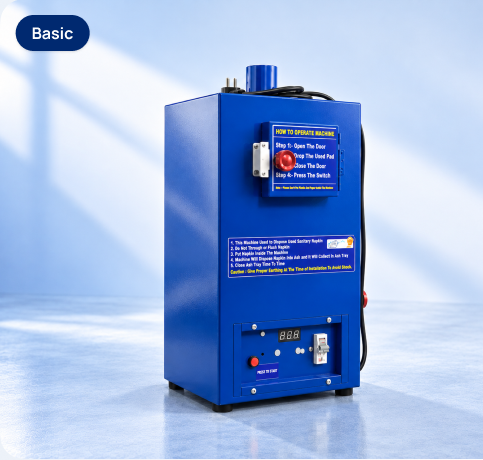
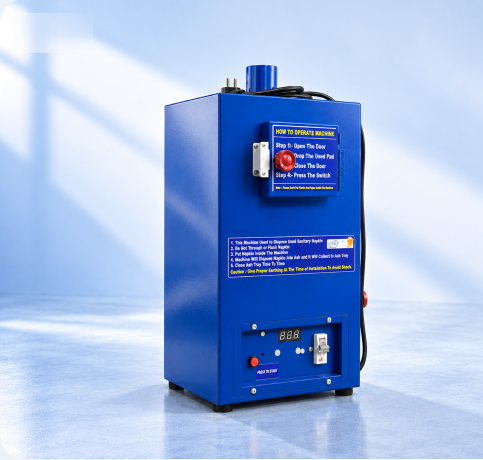
fix(ui): center searchbar in navbar, remove double container, refine card hover stroke/shadow without image zoom, clean baked badge from testimonial image

Changed region(s): [[0.0311, 0.0304, 0.1863, 0.1217]]

diff --git a/src/components/catalog/cards.tsx b/src/components/catalog/cards.tsx
@@ -37,7 +37,7 @@ function UnifiedProductCard({
     img.src.includes("testimonial-");
 
   return (
-    <article className="group relative flex h-full flex-col rounded-[24px] sm:rounded-[28px] border border-line bg-card p-3 sm:p-3.5 xl:p-4 shadow-[0_4px_24px_rgba(0,0,0,0.04)] transition-all duration-300 hover:-translate-y-1 hover:border-navy/30 hover:shadow-[0_16px_36px_rgba(0,41,112,0.08)]">
+    <article className="group relative flex h-full flex-col rounded-[24px] sm:rounded-[28px] border border-line bg-card p-3 sm:p-3.5 xl:p-4 shadow-[0_4px_24px_rgba(0,0,0,0.04)] transition-all duration-300 hover:-translate-y-1.5 hover:border-navy/40 hover:shadow-[0_18px_40px_rgba(0,41,112,0.12)]">
       {/* Product Image Container */}
       <div
         className="relative w-full overflow-hidden rounded-[16px] sm:rounded-[20px] bg-gradient-to-b from-[#eaf0f8] to-[#f4f7fb] flex items-center justify-center h-[200px] sm:h-[220px] lg:h-[260px] xl:h-[300px]"
@@ -47,7 +47,7 @@ function UnifiedProductCard({
           alt={img.alt || product.title}
           width={img.width || 400}
           height={img.height || 340}
-          className="size-full object-cover object-center transition-transform duration-500 ease-out group-hover:scale-105"
+          className="size-full object-cover object-center"
         />
 
         {!isBakedImage && product.badge && (
@@ -172,7 +172,7 @@ export function DetailCard({ product }: { product: ProductDTO }) {
   ];
 
   return (
-    <article className="group relative flex h-full flex-col rounded-[24px] sm:rounded-[28px] border border-line bg-card p-3 sm:p-3.5 xl:p-4 shadow-[0_4px_24px_rgba(0,0,0,0.04)] transition-all duration-300 hover:-translate-y-1 hover:border-navy/30 hover:shadow-[0_16px_36px_rgba(0,41,112,0.08)]">
+    <article className="group relative flex h-full flex-col rounded-[24px] sm:rounded-[28px] border border-line bg-card p-3 sm:p-3.5 xl:p-4 shadow-[0_4px_24px_rgba(0,0,0,0.04)] transition-all duration-300 hover:-translate-y-1.5 hover:border-navy/40 hover:shadow-[0_18px_40px_rgba(0,41,112,0.12)]">
       {/* Product Image Container */}
       <div
         className="relative w-full overflow-hidden rounded-[16px] sm:rounded-[20px] bg-gradient-to-b from-[#eaf0f8] to-[#f4f7fb] flex items-center justify-center h-[220px] sm:h-[250px] lg:h-[260px] xl:h-[300px]"
@@ -182,7 +182,7 @@ export function DetailCard({ product }: { product: ProductDTO }) {
           alt={img.alt || product.title}
           width={img.width || 400}
           height={img.height || 340}
-          className="size-full object-cover object-center transition-transform duration-500 ease-out group-hover:scale-105"
+          className="size-full object-cover object-center"
         />
       </div>
 

diff --git a/src/components/home/HomeHeaderView.tsx b/src/components/home/HomeHeaderView.tsx
@@ -80,9 +80,7 @@ export function HomeHeaderView({ userName, userRole, products, cartCount = 0 }: 
           )}
           aria-hidden={!isScrolled}
         >
-          <div className="rounded-full bg-white/95 backdrop-blur-md shadow-[0_8px_30px_rgb(0_41_112/0.16)] border border-line p-0.5">
-            <ProductSearch items={products} />
-          </div>
+          <ProductSearch items={products} />
         </div>
       )}
 
@@ -91,19 +89,19 @@ export function HomeHeaderView({ userName, userRole, products, cartCount = 0 }: 
           Visible at top of page. Search bar grouped together with nav links.
           ======================================================== */}
       <header className="relative z-40 bg-transparent transition-all duration-300">
-        <div className="mx-auto flex h-(--header-height) w-full max-w-(--container-page) items-center justify-between gap-6 px-5 sm:px-8 lg:px-8 xl:px-16">
+        <div className="mx-auto flex h-(--header-height) w-full max-w-(--container-page) items-center justify-between gap-4 lg:gap-8 px-5 sm:px-8 lg:px-8 xl:px-16">
           {/* Left Side: Logo */}
           <div className="shrink-0">
             <Logo />
           </div>
 
-          {/* Right Side: Search bar together with Nav links & Profile/Login */}
-          <div className="ml-auto hidden items-center gap-4 xl:gap-7 lg:flex">
-            {/* Searchbar adjacent to navlinks */}
-            <div className="w-[190px] xl:w-[270px] shrink-0">
-              <ProductSearch items={products} />
-            </div>
+          {/* Center: Search bar */}
+          <div className="hidden lg:flex flex-1 justify-center max-w-[320px] xl:max-w-[420px] mx-auto">
+            <ProductSearch items={products} className="w-full" />
+          </div>
 
+          {/* Right Side: Nav links & Profile/Login */}
+          <div className="hidden items-center gap-4 xl:gap-7 lg:flex shrink-0">
             {/* Nav links & Account/Login: Always visible on desktop */}
             <nav aria-label="Main" className="flex items-center gap-4 xl:gap-7">
               <ul className="flex items-center gap-4 xl:gap-7">

diff --git a/src/components/home/ProductSearch.tsx b/src/components/home/ProductSearch.tsx
@@ -32,7 +32,7 @@ export function ProductSearch({ items, className }: { items: Item[]; className?:
       <label htmlFor={`${listId}-input`} className="sr-only">
         Search products
       </label>
-      <div className="flex h-[46px] items-center gap-3 rounded-full border border-slate-200/90 bg-white px-5 shadow-[0_4px_16px_rgb(16_70_155/0.08),0_1px_3px_rgb(0_0_0/0.05)] transition-all duration-200 focus-within:border-navy focus-within:ring-2 focus-within:ring-navy/20 focus-within:shadow-[0_6px_20px_rgb(16_70_155/0.14)]">
+      <div className="flex h-[46px] items-center gap-3 rounded-full border border-slate-200/90 bg-white/95 backdrop-blur-md px-5 shadow-[0_4px_20px_rgba(0,41,112,0.10),0_1px_3px_rgba(0,0,0,0.04)] transition-all duration-200 focus-within:border-navy focus-within:ring-2 focus-within:ring-navy/20 focus-within:shadow-[0_6px_20px_rgb(16_70_155/0.14)]">
         <Search aria-hidden className="size-[18px] shrink-0 text-navy" />
         <input
           id={`${listId}-input`}
